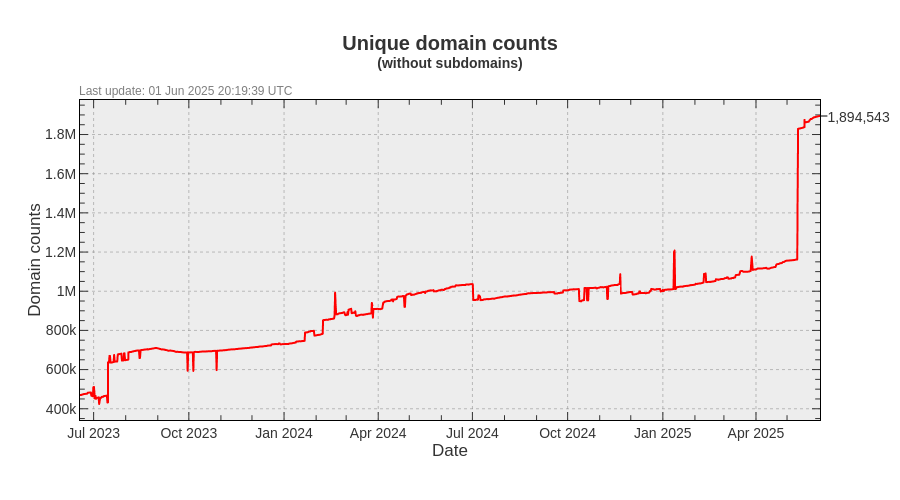
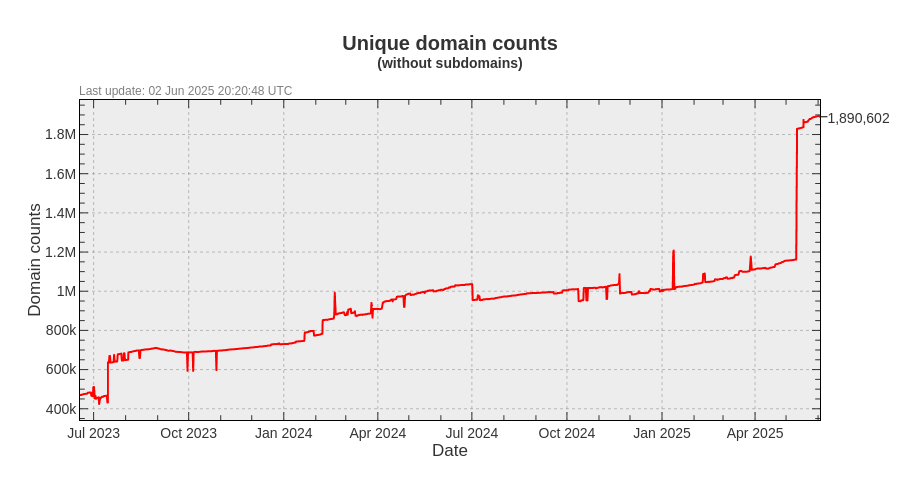
Update pages

diff --git a/README.md b/README.md
@@ -3,23 +3,23 @@ A blocklist file for blocking ads, trackers and malware domains.
 
[1 lines of base64/hex data omitted]
 
-- Unique domains: 2,628,877
-- Without subdomains: 1,894,543
-- Last update: 01 Jun 2025 20:19:39 UTC
-- Version: 2025.06.01.01
+- Unique domains: 2,596,616
+- Without subdomains: 1,890,602
+- Last update: 02 Jun 2025 20:20:48 UTC
+- Version: 2025.06.02.01
 
 
 ### Downloads:
 
 | Format             | Domain count      | Download Link |
 |:------------------ | -----------------:|:-------------:|
-| *Adblock Plus*     | 1,894,543 | [Download](https://dl.cenk.app/bad-hosts/bad-hosts-abp) |
-| *Wildcard domains* | 1,894,543 | [Download](https://dl.cenk.app/bad-hosts/bad-hosts-wildcard) |
-| *dnsmasq*          | 1,894,543 | [Download](https://dl.cenk.app/bad-hosts/bad-hosts-dnsmasq) |
-| *Unbound*          | 1,894,543 | [Download](https://dl.cenk.app/bad-hosts/bad-hosts-unbound) |
-| *hosts*            | 2,628,877 | [Download](https://dl.cenk.app/bad-hosts/hosts) |
-| *hosts (ipv6)*     | 2,628,877 | [Download](https://dl.cenk.app/bad-hosts/hosts-ipv6) |
-| *Plain domains*    | 2,628,877 | [Download](https://dl.cenk.app/bad-hosts/bad-hosts-domains) |
+| *Adblock Plus*     | 1,890,602 | [Download](https://dl.cenk.app/bad-hosts/bad-hosts-abp) |
+| *Wildcard domains* | 1,890,602 | [Download](https://dl.cenk.app/bad-hosts/bad-hosts-wildcard) |
+| *dnsmasq*          | 1,890,602 | [Download](https://dl.cenk.app/bad-hosts/bad-hosts-dnsmasq) |
+| *Unbound*          | 1,890,602 | [Download](https://dl.cenk.app/bad-hosts/bad-hosts-unbound) |
+| *hosts*            | 2,596,616 | [Download](https://dl.cenk.app/bad-hosts/hosts) |
+| *hosts (ipv6)*     | 2,596,616 | [Download](https://dl.cenk.app/bad-hosts/hosts-ipv6) |
+| *Plain domains*    | 2,596,616 | [Download](https://dl.cenk.app/bad-hosts/bad-hosts-domains) |
 
 ### Domain count history
 #### With subdomains
